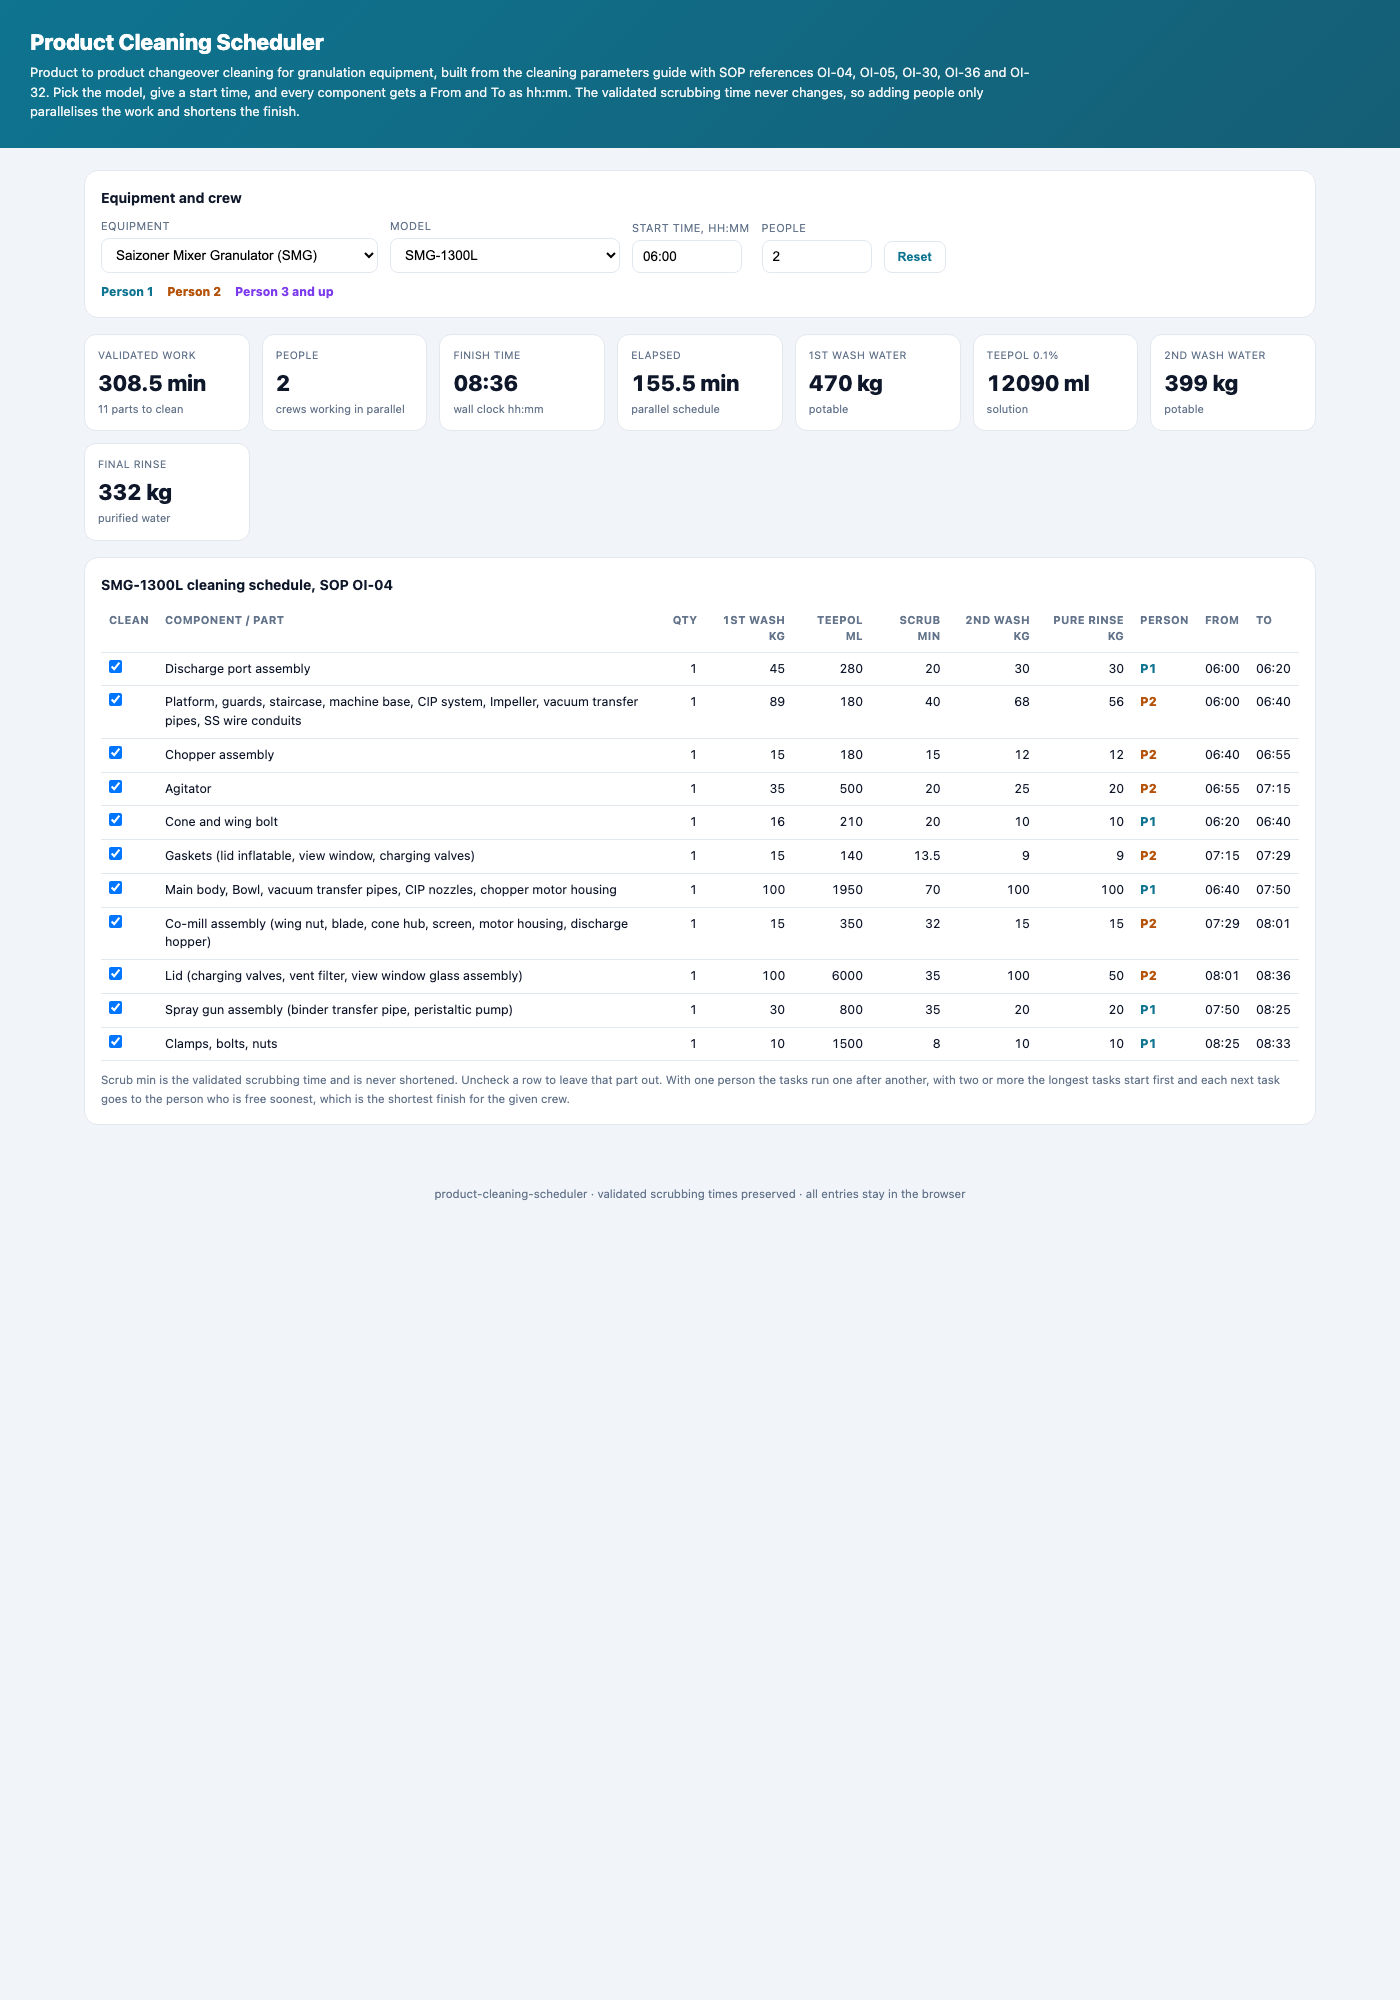
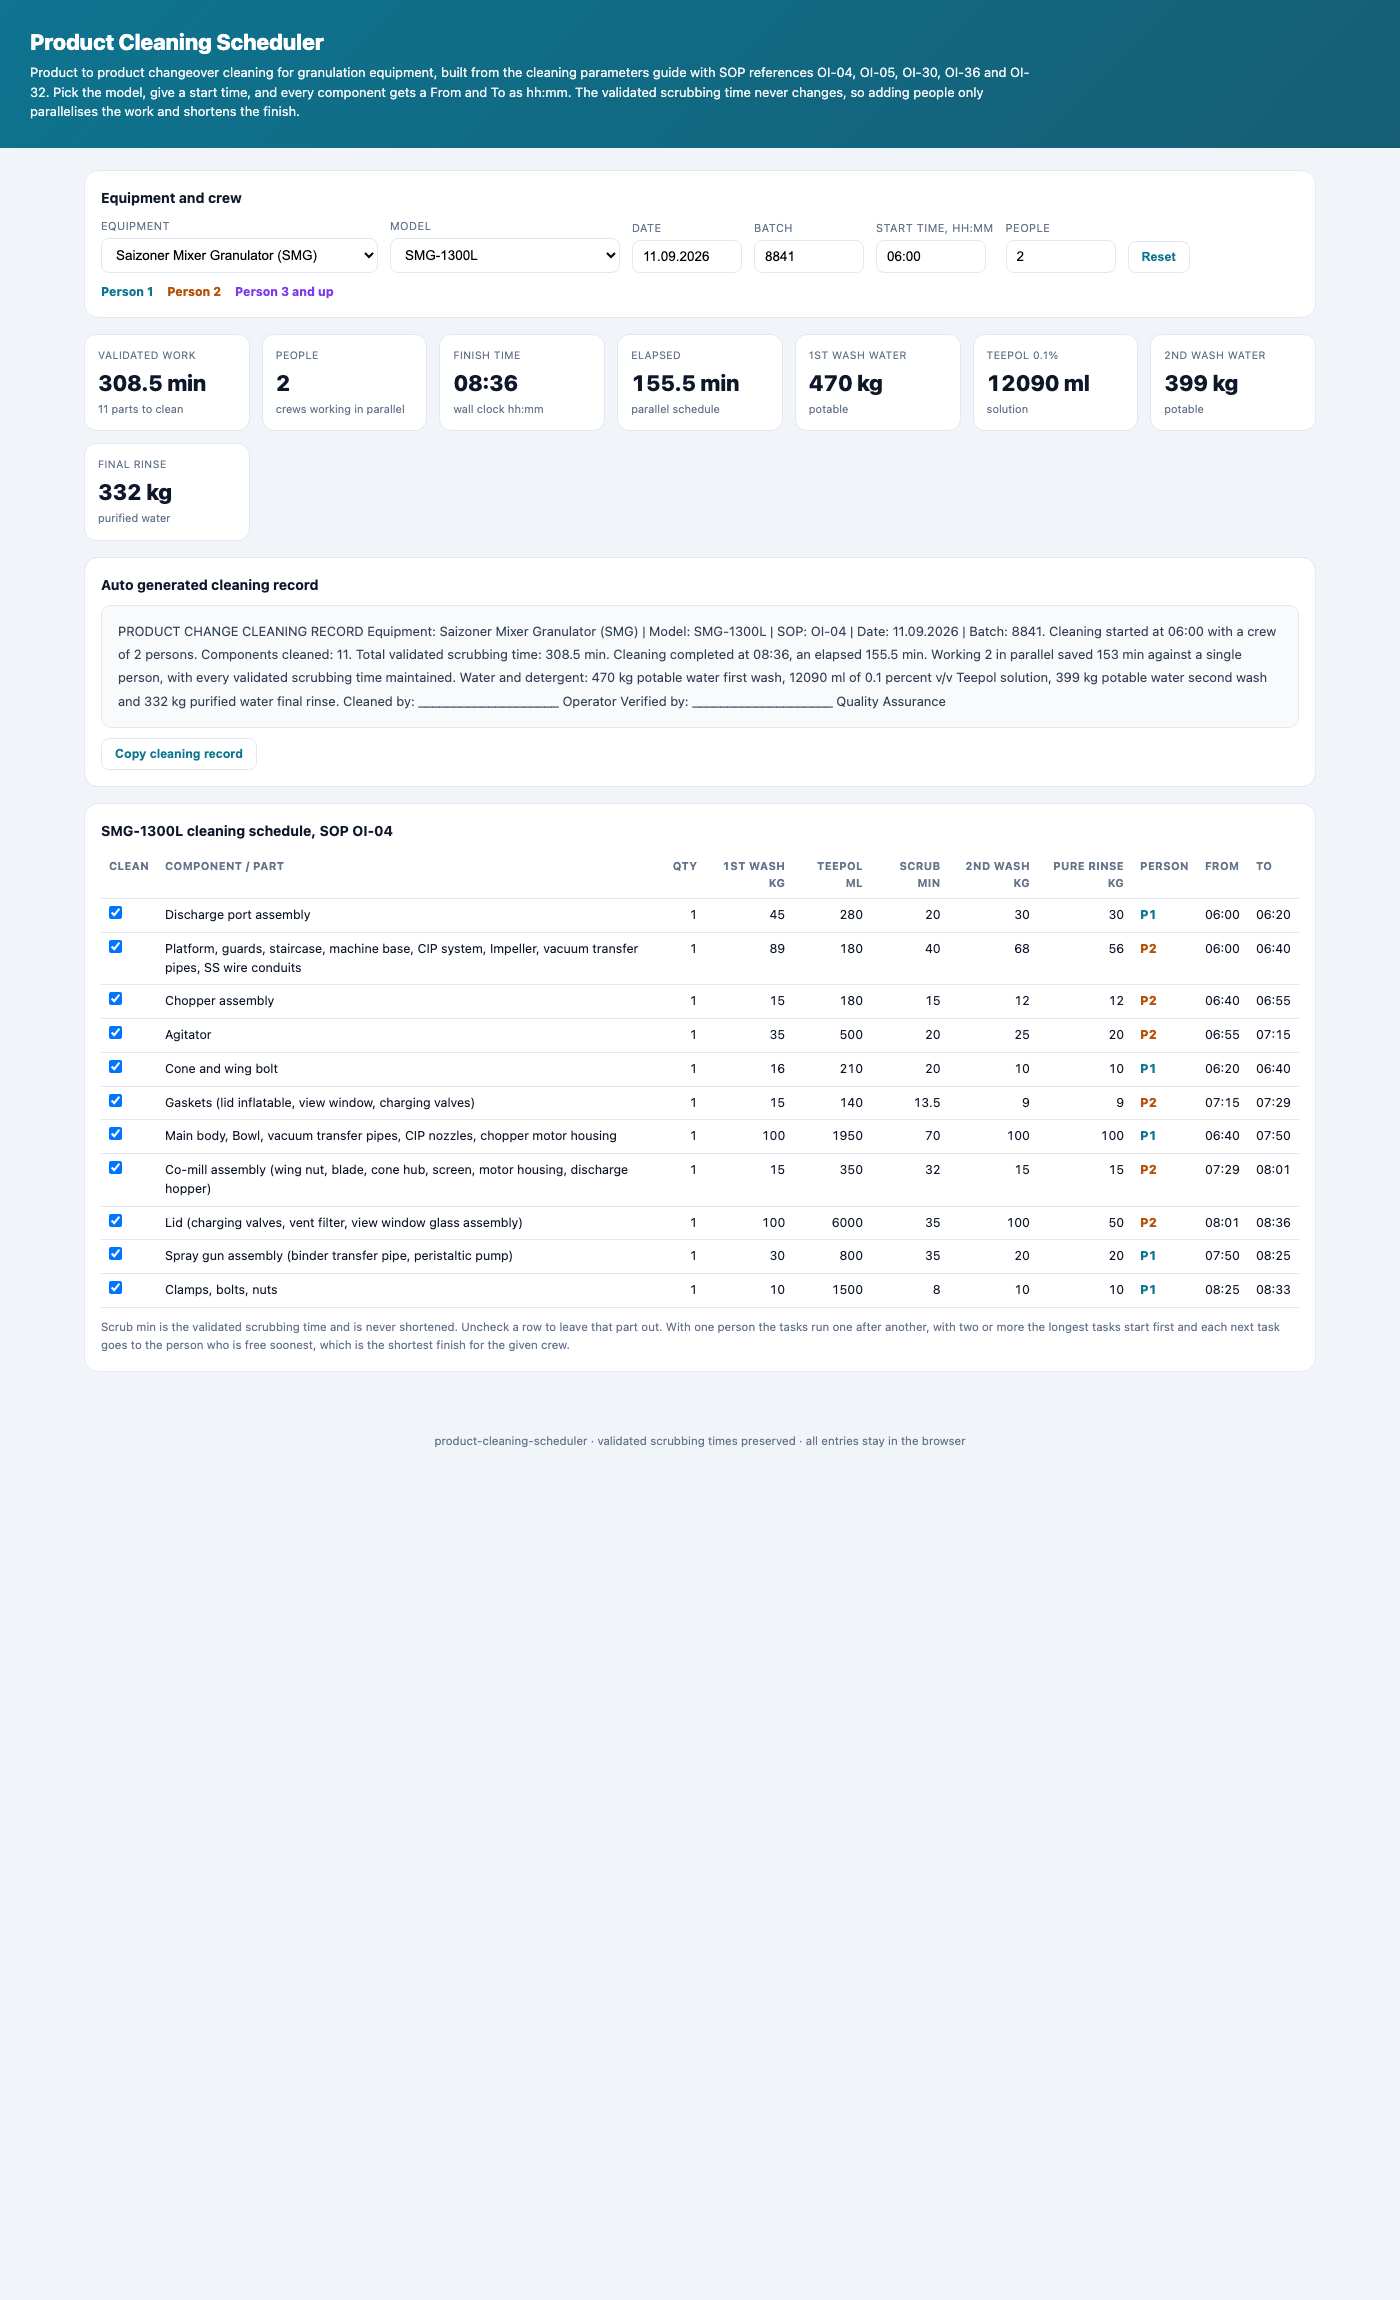
Add auto generated professional cleaning record

diff --git a/index.html b/index.html
@@ -36,6 +36,7 @@
   .tblwrap{overflow-x:auto}
   .legend{display:flex;gap:14px;flex-wrap:wrap;font-size:12px;margin-top:10px}
   .legend b{font-weight:800}
+  .remark{background:#f8fafc;border:1px solid var(--line);border-radius:10px;padding:14px 16px;font-size:13px;color:#334155;line-height:1.8}
   footer{text-align:center;color:var(--muted);font-size:11.5px;padding:22px}
 </style>
 </head>
@@ -50,6 +51,8 @@
     <div class="frow">
       <div class="field"><label>Equipment</label><select id="group"></select></div>
       <div class="field"><label>Model</label><select id="model"></select></div>
+      <div class="field"><label>Date</label><input id="date" value="11.09.2026"></div>
+      <div class="field"><label>Batch</label><input id="batch" value="8841"></div>
       <div class="field"><label>Start time, hh:mm</label><input id="start" value="06:00"></div>
       <div class="field"><label>People</label><input id="people" type="number" min="1" step="1" value="1"></div>
       <button id="reset" class="btn ghost">Reset</button>
@@ -60,6 +63,12 @@
   </div>
 
   <div class="kpis" id="kpis"></div>
+
+  <div class="panel">
+    <h3>Auto generated cleaning record</h3>
+    <div id="cleanRemark" class="remark">Fill the form to generate the record.</div>
+    <div style="margin-top:10px"><button id="copyClean" class="btn ghost">Copy cleaning record</button></div>
+  </div>
 
   <div class="panel">
     <h3 id="tblTitle">Cleaning schedule</h3>
@@ -178,11 +187,28 @@ function compute(){
     kpi("Teepol 0.1%",Math.round(teepol*10)/10+" ml","solution")+
     kpi("2nd wash water",Math.round(p2*10)/10+" kg","potable")+
     kpi("Final rinse",Math.round(pure*10)/10+" kg","purified water");
+  const one=schedule(tasks,1,startMin);
+  const water={potable1:Math.round(p1*10)/10,teepol:Math.round(teepol*10)/10,potable2:Math.round(p2*10)/10,pure:Math.round(pure*10)/10};
+  $("cleanRemark").textContent=cleaningRemark({equipment:g,model:m,sop:EQUIPMENT[g].sop,date:$("date").value.trim(),batch:$("batch").value.trim(),start:$("start").value.trim(),res:res,water:water,one:one.makespan});
+}
+function cleaningRemark(c){
+  const n=c.res.assignments.length,crew=c.res.people;
+  const p=[];
+  p.push("PRODUCT CHANGE CLEANING RECORD");
+  p.push("Equipment: "+c.equipment+" | Model: "+c.model+" | SOP: "+c.sop+(c.date?" | Date: "+c.date:"")+(c.batch?" | Batch: "+c.batch:"")+".");
+  p.push("Cleaning started at "+c.start+" with a crew of "+crew+" "+(crew===1?"person":"persons")+".");
+  p.push("Components cleaned: "+n+". Total validated scrubbing time: "+c.res.total+" min. Cleaning completed at "+c.res.finish+", an elapsed "+c.res.makespan+" min.");
+  if(c.one>c.res.makespan)p.push("Working "+crew+" in parallel saved "+(c.one-c.res.makespan)+" min against a single person, with every validated scrubbing time maintained.");
+  else p.push("Every validated scrubbing time was maintained.");
+  p.push("Water and detergent: "+c.water.potable1+" kg potable water first wash, "+c.water.teepol+" ml of 0.1 percent v/v Teepol solution, "+c.water.potable2+" kg potable water second wash and "+c.water.pure+" kg purified water final rinse.");
+  p.push("Cleaned by: ____________________ Operator    Verified by: ____________________ Quality Assurance");
+  return p.join(" ");
 }
 function kpi(lb,vl,sub){return '<div class="kpi"><div class="lb">'+lb+'</div><div class="vl">'+vl+'</div><div class="sub">'+sub+'</div></div>';}
 $("group").addEventListener("change",()=>{fillModels();buildRows();compute();});
 $("model").addEventListener("change",()=>{buildRows();compute();});
-["start","people"].forEach(id=>$(id).addEventListener("input",compute));
+["start","people","date","batch"].forEach(id=>$(id).addEventListener("input",compute));
+$("copyClean").addEventListener("click",()=>{if(navigator.clipboard)navigator.clipboard.writeText($("cleanRemark").textContent);});
 $("reset").addEventListener("click",()=>{$("start").value="06:00";$("people").value="1";compute();});
 fillGroups();fillModels();buildRows();
 if(location.search.includes("demo")){$("people").value="2";}

diff --git a/cleaning_scheduler.py b/cleaning_scheduler.py
@@ -198,3 +198,33 @@ def water_totals(tasks):
         "potable2_kg": round(sum(t["p2"] for t in tasks), 1),
         "purified_kg": round(sum(t["pure"] for t in tasks), 1),
     }
+
+
+def cleaning_remark(equipment, model, sop, date, batch, start_hhmm, result, water,
+                    one_person_makespan=None):
+    """Professional product change cleaning record for the logbook."""
+    n = len(result["assignments"])
+    crew = result["people"]
+    p = []
+    p.append("PRODUCT CHANGE CLEANING RECORD")
+    p.append(f"Equipment: {equipment} | Model: {model} | SOP: {sop}"
+             + (f" | Date: {date}" if date else "")
+             + (f" | Batch: {batch}" if batch else "") + ".")
+    p.append(f"Cleaning started at {start_hhmm} with a crew of {crew} "
+             f"{'person' if crew == 1 else 'persons'}.")
+    p.append(f"Components cleaned: {n}. Total validated scrubbing time: "
+             f"{round(result['total_min'], 1)} min. Cleaning completed at {result['finish']}, "
+             f"an elapsed {round(result['makespan'])} min.")
+    if one_person_makespan and one_person_makespan > result["makespan"]:
+        p.append(f"Working {crew} in parallel saved "
+                 f"{round(one_person_makespan - result['makespan'])} min against a single person, "
+                 f"with every validated scrubbing time maintained.")
+    else:
+        p.append("Every validated scrubbing time was maintained.")
+    p.append(f"Water and detergent: {water['potable1_kg']} kg potable water first wash, "
+             f"{water['teepol_ml']} ml of 0.1 percent v/v Teepol solution, "
+             f"{water['potable2_kg']} kg potable water second wash and "
+             f"{water['purified_kg']} kg purified water final rinse.")
+    p.append("Cleaned by: ____________________ Operator    "
+             "Verified by: ____________________ Quality Assurance")
+    return " ".join(p)

diff --git a/test_cleaning_scheduler.py b/test_cleaning_scheduler.py
@@ -106,5 +106,20 @@ class Water(unittest.TestCase):
         self.assertEqual(c.to_hhmm(1440), "00:00")
 
 
+class Remark(unittest.TestCase):
+    def test_cleaning_remark(self):
+        comps = c.components("SMG-150L")
+        r1 = c.schedule(comps, people=1, start_min=360)
+        r2 = c.schedule(comps, people=2, start_min=360)
+        w = c.water_totals(comps)
+        text = c.cleaning_remark("Saizoner Mixer Granulator (SMG)", "SMG-150L", "OI-04",
+                                 "11.09.2026", "8841", "06:00", r2, w,
+                                 one_person_makespan=r1["makespan"])
+        for t in ["PRODUCT CHANGE CLEANING RECORD", "SMG-150L", "SOP: OI-04",
+                  "crew of 2 persons", "Total validated scrubbing time",
+                  "saved", "Teepol", "Quality Assurance"]:
+            self.assertIn(t, text)
+
+
 if __name__ == "__main__":
     unittest.main()

diff --git a/README.md b/README.md
@@ -4,7 +4,7 @@
 
 **Granulation changeover cleaning, scheduled. Pick the equipment and model, give a start time, and every component gets a From and To as hh:mm. The validated scrubbing time never changes, so adding people only parallelises the work and shortens the finish.**
 
-[![Tests](https://img.shields.io/badge/tests-20%20passing-green)](#)
+[![Tests](https://img.shields.io/badge/tests-21%20passing-green)](#)
 [![Python](https://img.shields.io/badge/python-3.9%2B-blue)](#)
 [![Deps](https://img.shields.io/badge/deps-none-brightgreen)](#)
 [![License](https://img.shields.io/badge/license-MIT-green)](#)
@@ -20,7 +20,7 @@
 
 Product to product changeover cleaning has to respect the validated scrubbing time for every component, and it still has to finish as early as the shift allows. This tool holds the cleaning parameters for the granulation equipment, the Saizoner Mixer Granulator models SMG-1300L, SMG-1000L and SMG-150L (SOP OI-04), the Fluid Bed models FBE-1300L, FBE-800L and FBE-125L (SOP OI-05), the Gerteis Roll Compactor Macro-Pactor (SOP OI-30), the Conical Sieve Mill (SOP OI-36) and the Quadro Co-Mill U 20 (SOP OI-32). For each component it carries the potable water first wash, the 0.1 percent Teepol volume, the validated scrubbing time, the potable water second wash and the purified water final rinse.
 
-Give a start time and a crew size and the schedule lays itself out. One person cleans the components one after another. Add a second person and the longest tasks start first, each next task going to whoever is free soonest, so the finish comes in earlier without touching a single validated scrubbing time. Add more people and the finish keeps dropping until there are as many people as there are components.
+The tool also writes a professional product change cleaning record for the logbook, with the equipment, model and SOP, the crew, the total validated scrubbing time, the finish and elapsed time, the minutes saved by working in parallel, the water and Teepol totals, and an operator and QA signature line. Give a start time and a crew size and the schedule lays itself out. One person cleans the components one after another. Add a second person and the longest tasks start first, each next task going to whoever is free soonest, so the finish comes in earlier without touching a single validated scrubbing time. Add more people and the finish keeps dropping until there are as many people as there are components.
 
 ## How the schedule is built
 
@@ -51,7 +51,7 @@ c.water_totals(comps)                      # potable, Teepol and purified totals
 product-cleaning-scheduler/
 ├── index.html                 # interactive scheduler (open this)
 ├── cleaning_scheduler.py      # equipment data, scheduling and water totals
-├── test_cleaning_scheduler.py # 20 unit tests
+├── test_cleaning_scheduler.py # 21 unit tests
 ├── docs/                      # README preview screenshot
 └── README.md
 ```
